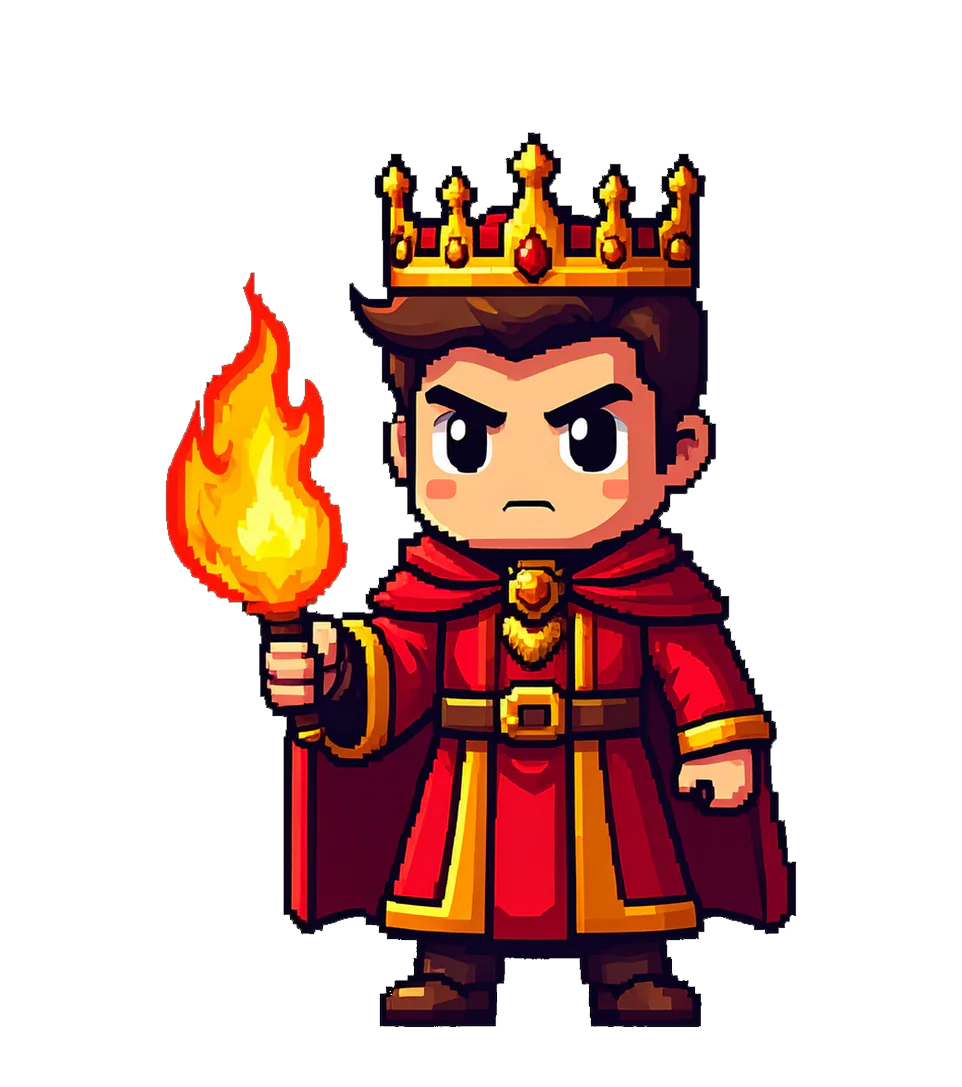
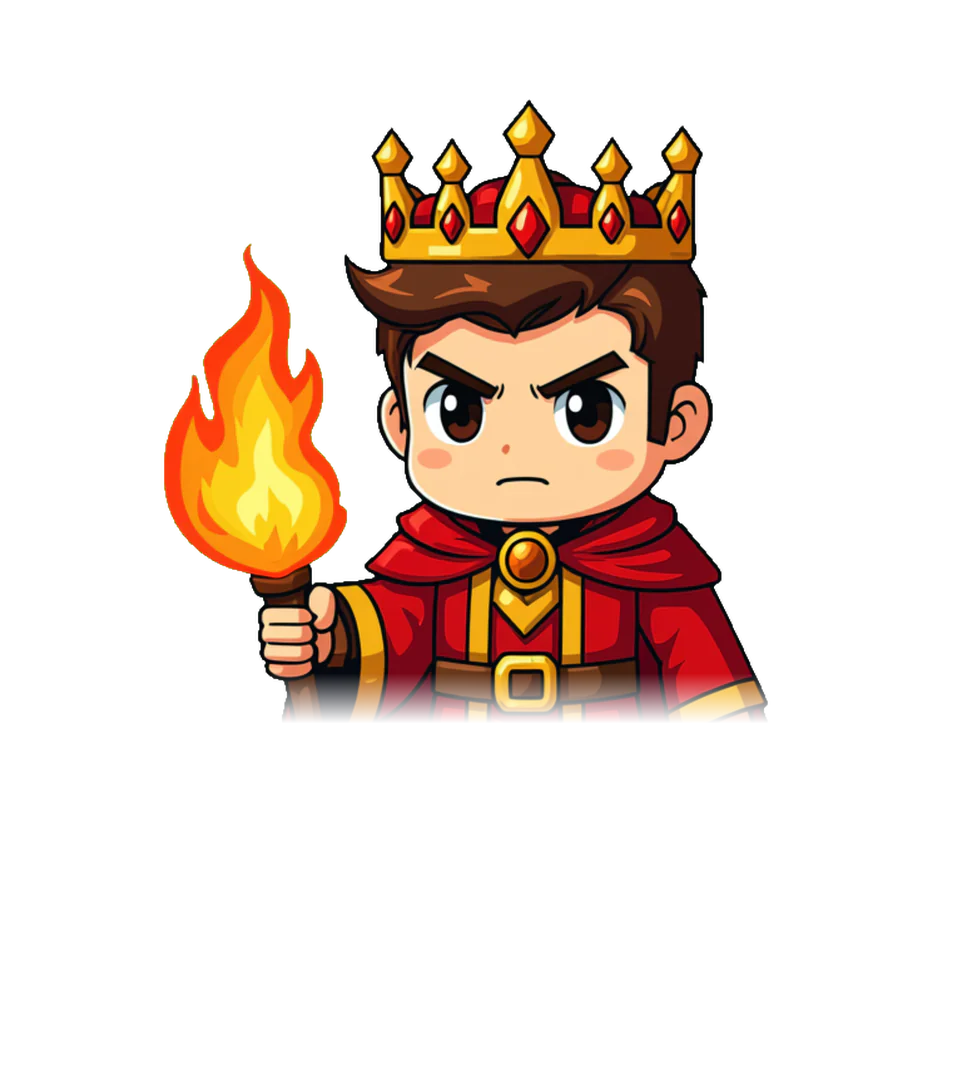
스토리 초상화 17장 일본 애니풍 반신 그림으로 교체, 흰 테두리·초록 번짐 후처리, 도감 스토리 카드 썸네일 보정 (규칙 불변)

diff --git a/godot/README.md b/godot/README.md
@@ -296,6 +296,16 @@ armeabi-v7a 제외는 AAB 업로드 크기를 줄이고 **32비트 전용 구형
 - **원본·재생성**: 무손실 PNG 는 `assets/image/character/art_src/{front,story}/`(git 제외 · .gdignore)로 옮겨 두고 변환 직전 커밋 `ad48239` 의 git 기록에도 있음. `python3 godot/tools/webp_art.py`(새 PNG 변환) · `--rebuild`(art_src 로 전부 다시) · `--check`(PSNR 점검).
   새 스토리 그림은 `tools/make-portrait.py` → `webp_art.py`. 필요: `cwebp`(`brew install webp`).
 - 도구가 앞모습 PNG 를 읽을 때는 `art_src/front/<키>.png` (gen-props · video-to-sheet 의 기본값 갱신).
+- **스토리 새 그림(허리 위 반신) 적용 절차 (2026-10-24 17장 적용, 나머지 6장 — boss_60 · boss_90 · boss_93 · boss_100 · kasha · commander_f — 은 재생성 뒤 같은 방식으로):**
+  1. 새 그림은 962x1087 RGBA PNG (그림은 위쪽 약 2/3 에 있고 아래 1/3 은 투명 — 허리에서 서서히 사라짐). 작업 폴더(git 밖) 예: `<scratchpad>/portrait/story/final/<키>.png` 와 적용 스크립트 `apply_story.sh`.
+  2. `bash apply_story.sh <키> <키> ...` — 기존 `art_src/story/<키>.png` 를 `backup_old/` 로 보관, 새 PNG 를 `art_src/story/<키>.png` 로 복사(무손실 원본, git 제외),
+     `cwebp -q 85 -m 6 -sharp_yuv -alpha_q 100` 으로 `assets/image/character/story/<키>.webp` 생성 — 옵션은 `tools/webp_art.py` 와 같음. `.webp.import` 는 이미 있으므로 그대로 둠(없으면 `webp_art.IMPORT_TEMPLATE` 로 만듦).
+     (apply_story.sh 없이 하려면: 새 PNG 를 `assets/image/character/story/<키>.png` 에 놓고 `python3 godot/tools/webp_art.py` — PNG 는 art_src 로 옮겨 가고 .webp 가 생김)
+  3. 다시 가져오기: `HOME=<임시> Godot --headless --path godot --editor --quit` (한 번이면 됨, `.godot/imported` 캐시만 바뀌고 `.import` 옆파일은 그대로). 임시 HOME 이 없으면 그냥 `Godot --headless --path godot --editor --quit`.
+  3-1. 생성 그림의 후처리(스티커 흰 테두리 · 크로마키 초록 찌꺼기 · 상단 여백)는 PNG 단계에서(PIL/numpy) 한 뒤 2번을 다시 실행. 원본 PNG 는 작업 폴더 `backup_clean/`. `apply_story.sh` 는 `set -e` 라 이미 보관본이 있으면 `cp -n` 이 실패해 조용히 멈추므로 `|| true` 가 필요함(고쳐 둠).
+  4. 확인: `git status` 가 `story/*.webp` (+ 코드 수정이 있었다면 그것) 만 보이고, `python3 godot/tools/webp_art.py --check` 로 PSNR, 도감 '스토리' 탭(`guide` 화면, 인물·보스 카드) · 스토리 대사창 · 전투 중 보스 등장을 1280x720·pixel8 으로 눈으로 확인.
+  - 반신 그림의 배치: 대사창(`story_view.gd`)은 위쪽만 보이는 틀(그림 칸 210x230 · 전투 중 150x160 + 아래쪽 흐림 마스크)이라 그대로 맞음(얼굴·어깨가 대사 상자 위로 솟음). 도감 인물 카드(64x72)는 투명 여백이 커서 `codex_view.gd _story_thumb()` 가 그림이 있는 부분(`Image.get_used_rect`)만 잘라 128x144 안에 통째로 들어가게 Lanczos 로 줄인 `ImageTexture` 로 보여 줌(가운데 정렬, 계단 없음) — 전신·반신 모두 자동.
+  - 크기(17장 적용 전 → 후): Windows pck 43,349,204 → 42,992,468 B (-0.36MB) · macOS zip 73.31 → 72.94MB · AAB 74.57 → 74.20MB · 디버그 APK 130.71 → 130.34MB. 나머지 6장도 비슷하게 바뀌어 전체 약 -0.5MB 예상.
 
 **6. 뒷모습.** `_b` 그림 120개 삭제 (3D 로 교체할 예정, 사용자 지시 2026-10-23 — git 기록에서 복구: `git checkout ad48239 -- godot/assets/image/character` 처럼 필요한 것만). 웹판도 꺼 두었던(`Rig.BACK_VIEW=false`) 그림이라 화면에는 원래 안 쓰임.
 **뒷모습을 읽는 자리** (3D 로 다시 연결할 때 여기만):
